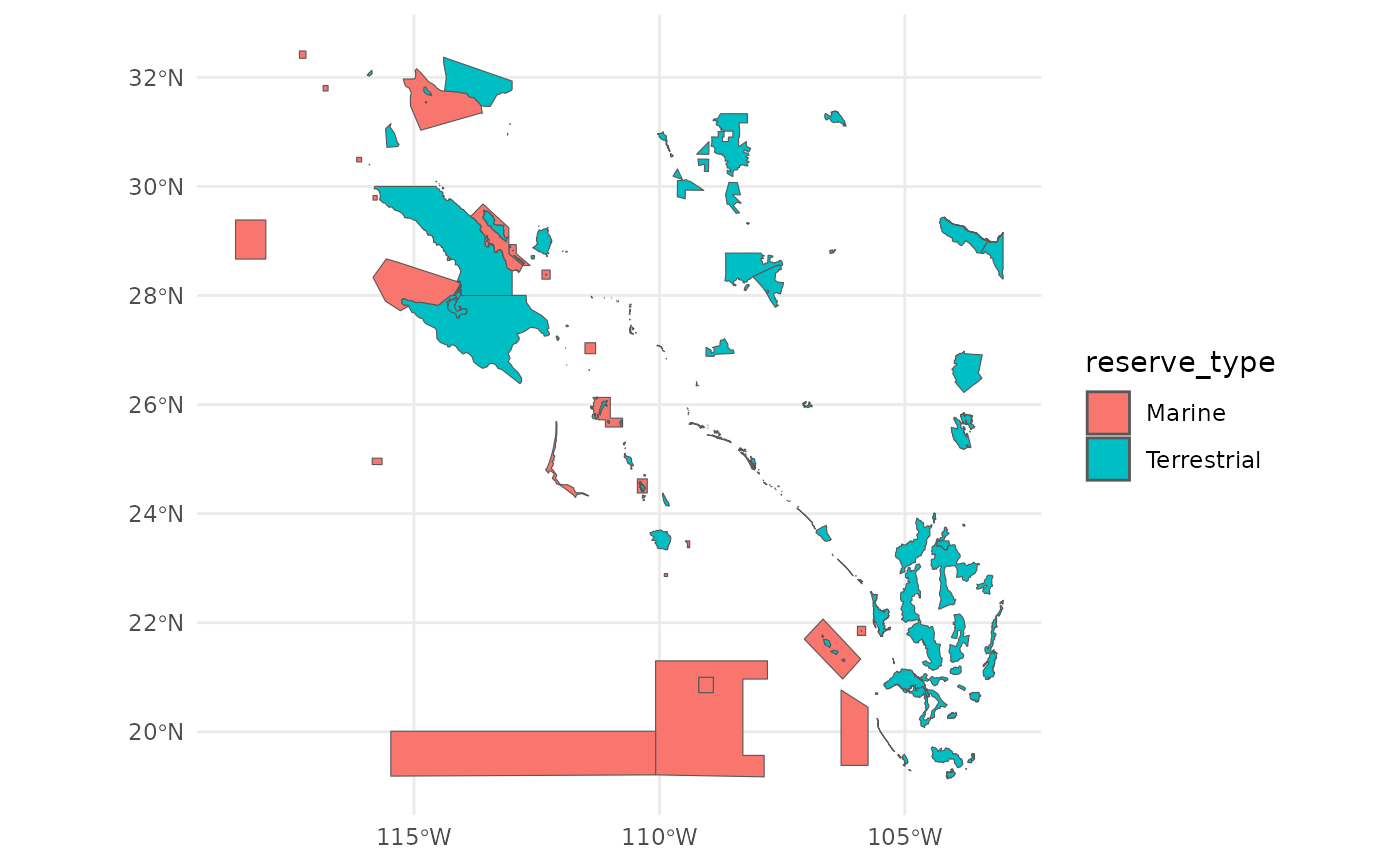
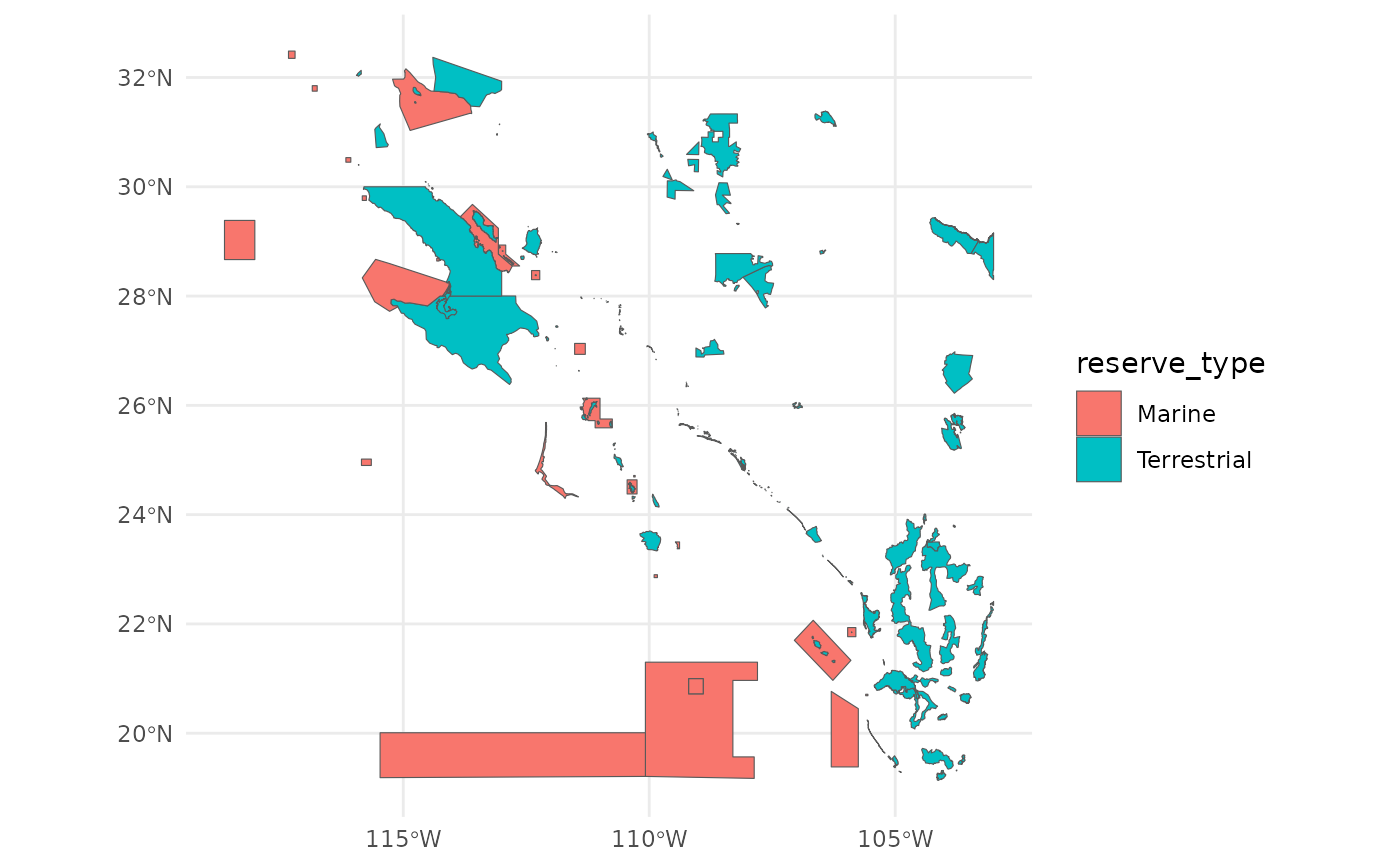
Deploying to gh-pages from @ sagesteppe/flyer@77e2f29e84e50bd5df817d0b6aa9350430f57d69 🚀

diff --git a/reference/protected.html b/reference/protected.html
@@ -1,5 +1,7 @@
 <!DOCTYPE html>
-<!-- Generated by pkgdown: do not edit by hand --><html lang="en"><head><meta http-equiv="Content-Type" content="text/html; charset=UTF-8"><meta charset="utf-8"><meta http-equiv="X-UA-Compatible" content="IE=edge"><meta name="viewport" content="width=device-width, initial-scale=1, shrink-to-fit=no"><title>Protected areas of Mexico — protected • flyer</title><script src="../deps/jquery-3.6.0/jquery-3.6.0.min.js"></script><meta name="viewport" content="width=device-width, initial-scale=1, shrink-to-fit=no"><link href="../deps/bootstrap-5.3.8/bootstrap.min.css" rel="stylesheet"><script src="../deps/bootstrap-5.3.8/bootstrap.bundle.min.js"></script><link href="../deps/font-awesome-6.5.2/css/all.min.css" rel="stylesheet"><link href="../deps/font-awesome-6.5.2/css/v4-shims.min.css" rel="stylesheet"><script src="../deps/headroom-0.11.0/headroom.min.js"></script><script src="../deps/headroom-0.11.0/jQuery.headroom.min.js"></script><script src="../deps/bootstrap-toc-1.0.1/bootstrap-toc.min.js"></script><script src="../deps/clipboard.js-2.0.11/clipboard.min.js"></script><script src="../deps/search-1.0.0/autocomplete.jquery.min.js"></script><script src="../deps/search-1.0.0/fuse.min.js"></script><script src="../deps/search-1.0.0/mark.min.js"></script><!-- pkgdown --><script src="../pkgdown.js"></script><meta property="og:title" content="Protected areas of Mexico — protected"></head><body>
+<!-- Generated by pkgdown: do not edit by hand --><html lang="en"><head><meta http-equiv="Content-Type" content="text/html; charset=UTF-8"><meta charset="utf-8"><meta http-equiv="X-UA-Compatible" content="IE=edge"><meta name="viewport" content="width=device-width, initial-scale=1, shrink-to-fit=no"><title>Protected areas of Mexico — protected • flyer</title><script src="../deps/jquery-3.6.0/jquery-3.6.0.min.js"></script><meta name="viewport" content="width=device-width, initial-scale=1, shrink-to-fit=no"><link href="../deps/bootstrap-5.3.8/bootstrap.min.css" rel="stylesheet"><script src="../deps/bootstrap-5.3.8/bootstrap.bundle.min.js"></script><link href="../deps/font-awesome-6.5.2/css/all.min.css" rel="stylesheet"><link href="../deps/font-awesome-6.5.2/css/v4-shims.min.css" rel="stylesheet"><script src="../deps/headroom-0.11.0/headroom.min.js"></script><script src="../deps/headroom-0.11.0/jQuery.headroom.min.js"></script><script src="../deps/bootstrap-toc-1.0.1/bootstrap-toc.min.js"></script><script src="../deps/clipboard.js-2.0.11/clipboard.min.js"></script><script src="../deps/search-1.0.0/autocomplete.jquery.min.js"></script><script src="../deps/search-1.0.0/fuse.min.js"></script><script src="../deps/search-1.0.0/mark.min.js"></script><!-- pkgdown --><script src="../pkgdown.js"></script><meta property="og:title" content="Protected areas of Mexico — protected"><meta name="description" content="A very lightly simplified data set of protected areas in Mexico, for cartographic purposes.
+From CONABIO CONANP, (09/2024). 'Federal Protected Natural Areas of Mexico, September 2024', National Commission for the Knowledge and Use of Biodiversity. Mexico City, Mexico."><meta property="og:description" content="A very lightly simplified data set of protected areas in Mexico, for cartographic purposes.
+From CONABIO CONANP, (09/2024). 'Federal Protected Natural Areas of Mexico, September 2024', National Commission for the Knowledge and Use of Biodiversity. Mexico City, Mexico."></head><body>
     <a href="#main" class="visually-hidden-focusable">Skip to contents</a>
 
 
@@ -38,8 +40,14 @@
     </div>
 
     <div class="ref-description section level2">
+    <p>A very lightly simplified data set of protected areas in Mexico, for cartographic purposes.
+From CONABIO CONANP, (09/2024). 'Federal Protected Natural Areas of Mexico, September 2024', National Commission for the Knowledge and Use of Biodiversity. Mexico City, Mexico.</p>
     </div>
 
+    <div class="section level2">
+    <h2 id="ref-usage">Usage<a class="anchor" aria-label="anchor" href="#ref-usage"></a></h2>
+    <div class="sourceCode"><pre class="sourceCode r"><code><span><span class="va">protected</span></span></code></pre></div>
+    </div>
 
     <div class="section level2">
     <h2 id="format">Format<a class="anchor" aria-label="anchor" href="#format"></a></h2>
@@ -50,26 +58,27 @@
 <dd><p>Date the preserve was established.</p></dd>
 
 <dt>reserve_type</dt>
-<dd><p>A locally defined category assigned to each reserve. <code>Marine</code> and <code>Terrestrial</code> are reserved for areas with 100\<!-- % of their surface in that category; \verb{Primarily Marine} and \verb{Primarily Terrestrial} are used for mixed areas, based on which surface type dominates.} -->
-geometryA simplified multipolygon geometry.</p></dd>
+<dd><p>A locally defined category assigned to each reserve. <code>Marine</code> and <code>Terrestrial</code> are reserved for areas with 100pct of their surface in that category; <code>Primarily Marine</code> and <code>Primarily Terrestrial</code> are used for mixed areas, based on which surface type dominates.</p></dd>
+
+<dt>geometry</dt>
+<dd><p>A simplified multipolygon geometry.</p></dd>
 
 
-</dl><p>protected
+</dl></div>
 
-
-A very lightly simplified data set of protected areas in Mexico, for cartographic purposes.
-From CONABIO CONANP, (09/2024). 'Federal Protected Natural Areas of Mexico, September 2024', National Commission for the Knowledge and Use of Biodiversity. Mexico City, Mexico.
-
-
-data(protected)library(ggplot2)
-ggplot() +
- geom_sf(data = protected, aes(fill = reserve_type)) +
- theme_minimal()
-
-datasets</p>
+    <div class="section level2">
+    <h2 id="ref-examples">Examples<a class="anchor" aria-label="anchor" href="#ref-examples"></a></h2>
+    <div class="sourceCode"><pre class="sourceCode r"><code><span class="r-in"><span><span class="fu"><a href="https://rdrr.io/r/utils/data.html" class="external-link">data</a></span><span class="op">(</span><span class="va">protected</span><span class="op">)</span></span></span>
+<span class="r-in"><span></span></span>
+<span class="r-in"><span><span class="kw"><a href="https://rdrr.io/r/base/library.html" class="external-link">library</a></span><span class="op">(</span><span class="va"><a href="https://ggplot2.tidyverse.org" class="external-link">ggplot2</a></span><span class="op">)</span></span></span>
+<span class="r-in"><span><span class="fu"><a href="https://ggplot2.tidyverse.org/reference/ggplot.html" class="external-link">ggplot</a></span><span class="op">(</span><span class="op">)</span> <span class="op">+</span></span></span>
+<span class="r-in"><span> <span class="fu"><a href="https://ggplot2.tidyverse.org/reference/ggsf.html" class="external-link">geom_sf</a></span><span class="op">(</span>data <span class="op">=</span> <span class="va">protected</span>, <span class="fu"><a href="https://ggplot2.tidyverse.org/reference/aes.html" class="external-link">aes</a></span><span class="op">(</span>fill <span class="op">=</span> <span class="va">reserve_type</span><span class="op">)</span><span class="op">)</span> <span class="op">+</span></span></span>
+<span class="r-in"><span> <span class="fu"><a href="https://ggplot2.tidyverse.org/reference/ggtheme.html" class="external-link">theme_minimal</a></span><span class="op">(</span><span class="op">)</span></span></span>
+<span class="r-plt img"><img src="protected-1.png" alt="" width="700" height="433"></span>
+</code></pre></div>
     </div>
-
-  </main></div>
+  </main><aside class="col-md-3"><nav id="toc" aria-label="Table of contents"><h2>On this page</h2>
+    </nav></aside></div>
 
 
     <footer><div class="pkgdown-footer-left">

diff --git a/articles/NightMap.html b/articles/NightMap.html
@@ -89,18 +89,18 @@ stops.</p>
 entry.</p>
 <div class="sourceCode" id="cb2"><pre class="downlit sourceCode r">
 <code class="sourceCode R"><span><span class="va">sticker_pal</span> <span class="op">&lt;-</span> <span class="fu"><a href="https://rdrr.io/r/base/list.html" class="external-link">list</a></span><span class="op">(</span></span>
-<span>  night        <span class="op">=</span> <span class="st">'#0F1E3C'</span>,  <span class="co"># deep navy background</span></span>
-<span>  ocean        <span class="op">=</span> <span class="st">'#152A5A'</span>,  <span class="co"># slightly lighter than night, for the plot panel</span></span>
-<span>  ocean_hi     <span class="op">=</span> <span class="st">'#3E5FA0'</span>,  <span class="co"># bathymetry hi end</span></span>
+<span>  night        <span class="op">=</span> <span class="st">'#00202e'</span>,  <span class="co"># deep navy background</span></span>
+<span>  ocean        <span class="op">=</span> <span class="st">'#152A5A'</span>,  <span class="co"># slightly lighter than night, for the plot panel </span></span>
+<span>  ocean_hi     <span class="op">=</span> <span class="st">'#37718E'</span>,  <span class="co"># bathymetry hi end</span></span>
 <span>  gold         <span class="op">=</span> <span class="st">'#E8A040'</span>,  <span class="co"># hex border / land primary</span></span>
-<span>  land_light   <span class="op">=</span> <span class="st">'#F5C078'</span>,  <span class="co"># land fill (lighter orange)</span></span>
+<span>  land_light   <span class="op">=</span> <span class="st">'#ffd380'</span>,  <span class="co"># land fill (lighter orange)</span></span>
 <span>  coral        <span class="op">=</span> <span class="st">'#E86A55'</span>,  <span class="co"># land border / warm accent</span></span>
 <span>  cream        <span class="op">=</span> <span class="st">'#F0E5B0'</span>,  <span class="co"># ship body / label text</span></span>
-<span>  mint         <span class="op">=</span> <span class="st">'#7BAA96'</span>,  <span class="co"># mast / topography</span></span>
-<span>  purple       <span class="op">=</span> <span class="st">'#4A2A72'</span>,  <span class="co"># route (dark end)</span></span>
+<span>  mint         <span class="op">=</span> <span class="st">'#74A57F'</span>,  <span class="co"># mast / topography</span></span>
+<span>  purple       <span class="op">=</span> <span class="st">'#531CB3'</span>,  <span class="co"># route (dark end)</span></span>
 <span>  lavender     <span class="op">=</span> <span class="st">'#C9A5F5'</span>,  <span class="co"># route (light end) / late-in-trip</span></span>
 <span>  star_gold    <span class="op">=</span> <span class="st">'#F5D060'</span>,  <span class="co"># city stars</span></span>
-<span>  star_pink    <span class="op">=</span> <span class="st">'#F28FB2'</span>   <span class="co"># tertiary highlight</span></span>
+<span>  star_pink    <span class="op">=</span> <span class="st">'#bc5090'</span>   <span class="co"># tertiary highlight</span></span>
 <span><span class="op">)</span></span></code></pre></div>
 </div>
 <div class="section level2">
@@ -165,7 +165,11 @@ bounding box focused on the Sea of Cortez.</p>
 <span></span>
 <span><span class="va">places</span> <span class="op">&lt;-</span> <span class="fu"><a href="https://r-spatial.github.io/sf/reference/st_crop.html" class="external-link">st_crop</a></span><span class="op">(</span><span class="va">places</span>, <span class="va">bb</span><span class="op">)</span></span>
 <span></span>
-<span><span class="va">date_scale</span> <span class="op">&lt;-</span> <span class="fu"><a href="https://rdrr.io/r/base/as.Date.html" class="external-link">as.Date</a></span><span class="op">(</span><span class="fu"><a href="https://rdrr.io/r/stats/quantile.html" class="external-link">quantile</a></span><span class="op">(</span><span class="fu"><a href="https://rdrr.io/r/base/numeric.html" class="external-link">as.numeric</a></span><span class="op">(</span><span class="va">route</span><span class="op">$</span><span class="va">date_arrive</span><span class="op">)</span>, na.rm <span class="op">=</span> <span class="cn">TRUE</span>, probs <span class="op">=</span> <span class="fu"><a href="https://rdrr.io/r/base/c.html" class="external-link">c</a></span><span class="op">(</span><span class="fl">0.1</span>, <span class="fl">0.5</span>, <span class="fl">0.9</span><span class="op">)</span><span class="op">)</span><span class="op">)</span></span>
+<span><span class="va">date_scale</span> <span class="op">&lt;-</span> <span class="fu"><a href="https://rdrr.io/r/base/as.Date.html" class="external-link">as.Date</a></span><span class="op">(</span></span>
+<span>  <span class="fu"><a href="https://rdrr.io/r/stats/quantile.html" class="external-link">quantile</a></span><span class="op">(</span></span>
+<span>    <span class="fu"><a href="https://rdrr.io/r/base/numeric.html" class="external-link">as.numeric</a></span><span class="op">(</span><span class="va">route</span><span class="op">$</span><span class="va">date_arrive</span><span class="op">)</span>, na.rm <span class="op">=</span> <span class="cn">TRUE</span>, probs <span class="op">=</span> <span class="fu"><a href="https://rdrr.io/r/base/c.html" class="external-link">c</a></span><span class="op">(</span><span class="fl">0.1</span>, <span class="fl">0.5</span>, <span class="fl">0.9</span><span class="op">)</span></span>
+<span>    <span class="op">)</span></span>
+<span>  <span class="op">)</span></span>
 <span><span class="va">date_lbls</span> <span class="op">&lt;-</span> <span class="fu"><a href="https://rdrr.io/r/base/c.html" class="external-link">c</a></span><span class="op">(</span></span>
 <span>  <span class="fu"><a href="https://rdrr.io/r/base/expression.html" class="external-link">expression</a></span><span class="op">(</span><span class="fu"><a href="https://rdrr.io/r/base/paste.html" class="external-link">paste</a></span><span class="op">(</span><span class="st">"Mar. "</span>, <span class="fl">16</span><span class="op">^</span><span class="va">th</span><span class="op">)</span><span class="op">)</span>,</span>
 <span>  <span class="fu"><a href="https://rdrr.io/r/base/expression.html" class="external-link">expression</a></span><span class="op">(</span><span class="fu"><a href="https://rdrr.io/r/base/paste.html" class="external-link">paste</a></span><span class="op">(</span><span class="st">"Mar. "</span>, <span class="fl">28</span><span class="op">^</span><span class="va">th</span><span class="op">)</span><span class="op">)</span>,</span>

diff --git a/reference/protected.md b/reference/protected.md
@@ -1,5 +1,16 @@
 # Protected areas of Mexico
 
+A very lightly simplified data set of protected areas in Mexico, for
+cartographic purposes. From CONABIO CONANP, (09/2024). 'Federal
+Protected Natural Areas of Mexico, September 2024', National Commission
+for the Knowledge and Use of Biodiversity. Mexico City, Mexico.
+
+## Usage
+
+``` r
+protected
+```
+
 ## Format
 
 An sf tibble, with a handful of attributes briefly describing each
@@ -16,12 +27,21 @@ protected area.
 - reserve_type:
 
   A locally defined category assigned to each reserve. `Marine` and
-  `Terrestrial` are reserved for areas with 100\\ geometryA simplified
-  multipolygon geometry.
+  `Terrestrial` are reserved for areas with 100pct of their surface in
+  that category; `Primarily Marine` and `Primarily Terrestrial` are used
+  for mixed areas, based on which surface type dominates.
 
-protected A very lightly simplified data set of protected areas in
-Mexico, for cartographic purposes. From CONABIO CONANP, (09/2024).
-'Federal Protected Natural Areas of Mexico, September 2024', National
-Commission for the Knowledge and Use of Biodiversity. Mexico City,
-Mexico. data(protected)library(ggplot2) ggplot() + geom_sf(data =
-protected, aes(fill = reserve_type)) + theme_minimal() datasets
+- geometry:
+
+  A simplified multipolygon geometry.
+
+## Examples
+
+``` r
+data(protected)
+
+library(ggplot2)
+ggplot() +
+ geom_sf(data = protected, aes(fill = reserve_type)) +
+ theme_minimal()
+```

diff --git a/articles/NightMap.md b/articles/NightMap.md
@@ -26,18 +26,18 @@ entry.
 ``` r
 
 sticker_pal <- list(
-  night        = '#0F1E3C',  # deep navy background
-  ocean        = '#152A5A',  # slightly lighter than night, for the plot panel
-  ocean_hi     = '#3E5FA0',  # bathymetry hi end
+  night        = '#00202e',  # deep navy background
+  ocean        = '#152A5A',  # slightly lighter than night, for the plot panel 
+  ocean_hi     = '#37718E',  # bathymetry hi end
   gold         = '#E8A040',  # hex border / land primary
-  land_light   = '#F5C078',  # land fill (lighter orange)
+  land_light   = '#ffd380',  # land fill (lighter orange)
   coral        = '#E86A55',  # land border / warm accent
   cream        = '#F0E5B0',  # ship body / label text
-  mint         = '#7BAA96',  # mast / topography
-  purple       = '#4A2A72',  # route (dark end)
+  mint         = '#74A57F',  # mast / topography
+  purple       = '#531CB3',  # route (dark end)
   lavender     = '#C9A5F5',  # route (light end) / late-in-trip
   star_gold    = '#F5D060',  # city stars
-  star_pink    = '#F28FB2'   # tertiary highlight
+  star_pink    = '#bc5090'   # tertiary highlight
 )
 ```
 
@@ -106,7 +106,11 @@ bb <- st_bbox(
 
 places <- st_crop(places, bb)
 
-date_scale <- as.Date(quantile(as.numeric(route$date_arrive), na.rm = TRUE, probs = c(0.1, 0.5, 0.9)))
+date_scale <- as.Date(
+  quantile(
+    as.numeric(route$date_arrive), na.rm = TRUE, probs = c(0.1, 0.5, 0.9)
+    )
+  )
 date_lbls <- c(
   expression(paste("Mar. ", 16^th)),
   expression(paste("Mar. ", 28^th)),